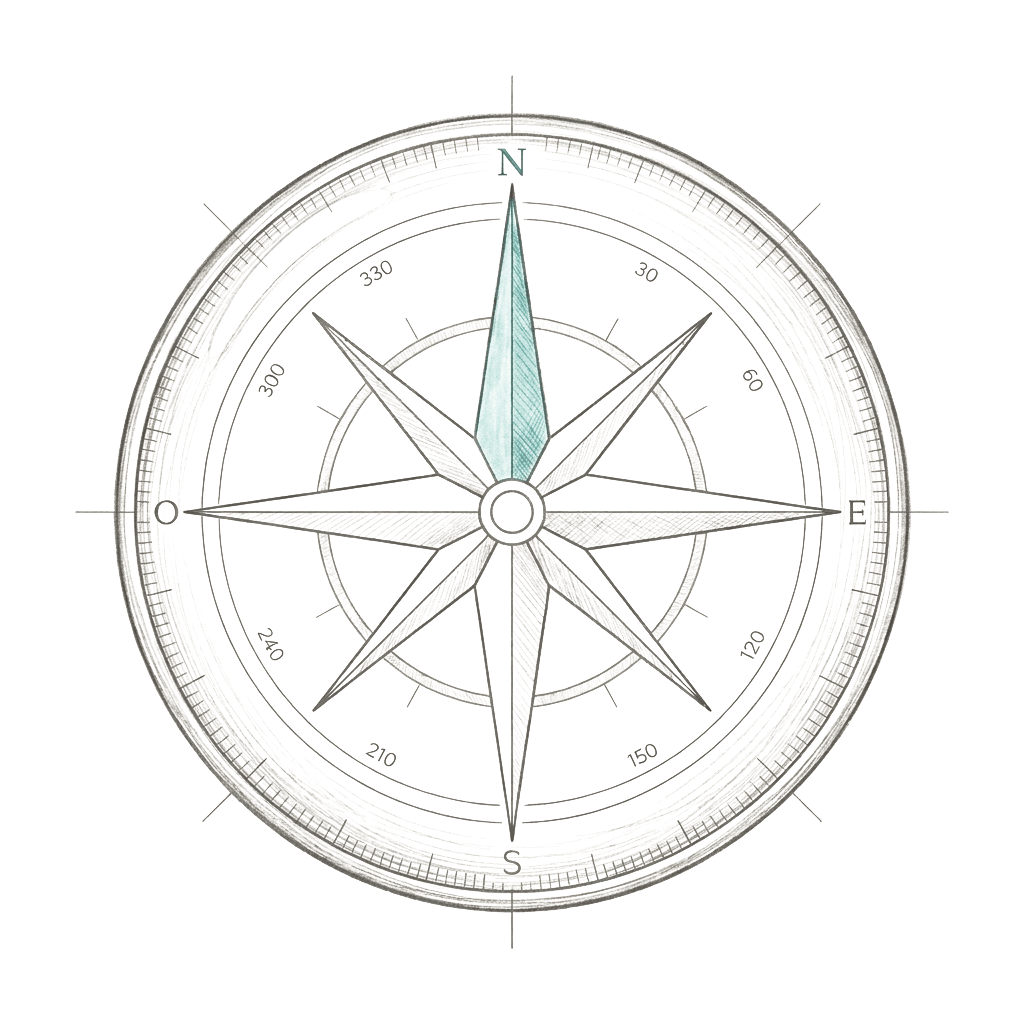
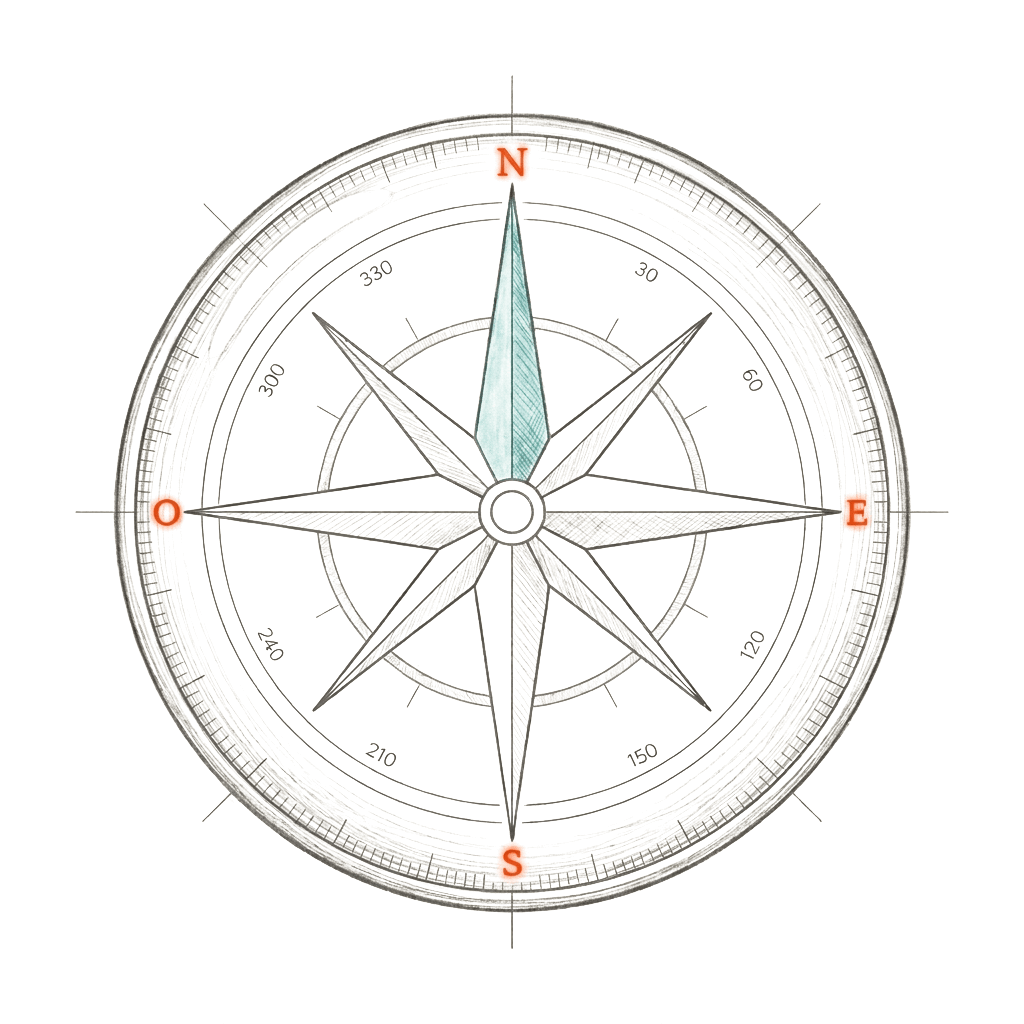
Brújula con N-S-E-O en naranja fosforescente; elimina las rayitas turquesa de los dividers en toda la página (queda solo el símbolo)

diff --git a/index.html b/index.html
@@ -1158,12 +1158,7 @@
             width: 100%;
             max-width: 240px;
         }
-        .divider-line {
-            width: 48px;
-            height: 1px;
-            background: #2ABFBF;
-            display: block;
-        }
+        .divider-line { display: none; } /* rayitas turquesa fuera: queda solo el símbolo */
         .divider-symbol svg {
             width: auto;
             height: 18px;